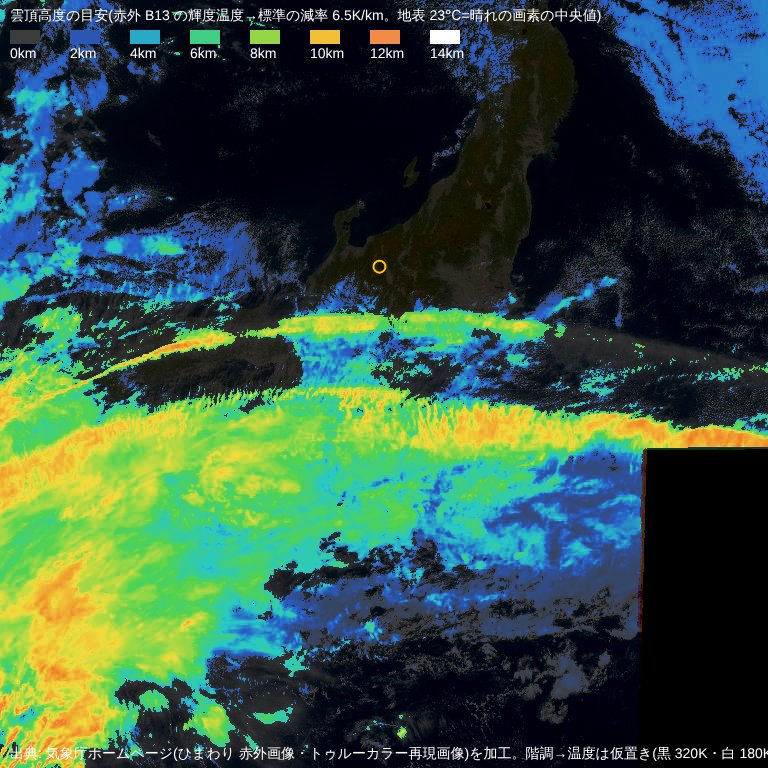
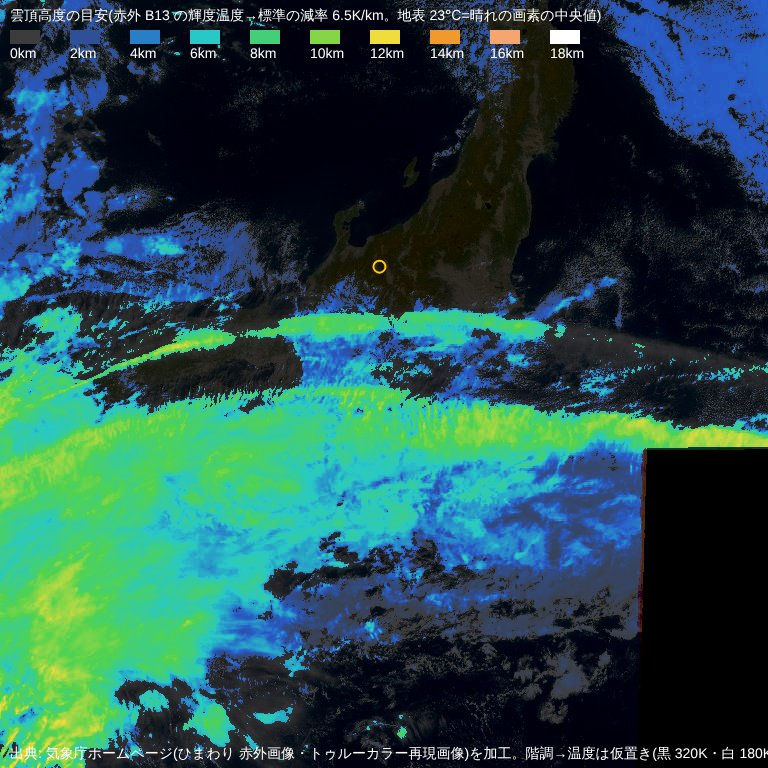
第196ラウンド — お茶の時間🫖 2 杯目 回答その194(雲の高さを赤外から・24° の窓・「辻エリア」を WebGL2 で試作・10 分の過去データの入口・MapLibre の WebGL の版の訂正・好きなもの)+反証レビュー 44 件の反映+review ノート+teatime/todo/CLAUDE.md/kaiki SKILL の更新
Claude-Session: https://claude.ai/code/session_01CNXdkFEXiqKR3WRG7r1Umc

diff --git a/docs/teatime/sandbox/sky-dome/sky.html b/docs/teatime/sandbox/sky-dome/sky.html
@@ -44,7 +44,7 @@
     for (let k = 0, i = 0; k < comp.data.length; k += 4, i++) { const l = irData[k]; if (l >= 254 || comp.data[k+3] === 0) continue; const c = [comp.data[k], comp.data[k+1], comp.data[k+2]]; if (Math.max(...c) < 10) continue; if (cloudiness(c) < 0.1) clear.push(l); }
     clear.sort((a,b)=>a-b); const medLum = clear.length ? clear[Math.floor(clear.length/2)] : 60; if (!TSFC) TSFC = lumToT(medLum);
     let n = 0, sum = 0, mx = 0;
-    for (let k = 0, i = 0; k < comp.data.length; k += 4, i++) { const l = irData[k]; if (l >= 254) { HMAP[i] = -1; continue; } const T = lumToT(l); const h = Math.max(0, Math.min(16000, (TSFC - T) / LAPSE * 1000)); HMAP[i] = h; const c = [comp.data[k], comp.data[k+1], comp.data[k+2]]; if (cloudiness(c) >= 0.5) { n++; sum += h; if (h > mx) mx = h; } }
+    for (let k = 0, i = 0; k < comp.data.length; k += 4, i++) { const l = irData[k]; if (l >= 254) { HMAP[i] = -1; continue; } const T = lumToT(l); const h = Math.max(0, Math.min(CFG.hmax || 20000, (TSFC - T) / LAPSE * 1000)); HMAP[i] = h; const c = [comp.data[k], comp.data[k+1], comp.data[k+2]]; if (cloudiness(c) >= 0.5) { n++; sum += h; if (h > mx) mx = h; } }
     irStats = { tsfcK: TSFC, clearMedianLum: medLum, cloudMeanH: n ? sum/n : null, cloudMaxH: mx, cloudPixels: n };
   }
   const hmapAt = (lat, lon) => { if (!IR) return null; const [x, y] = toPix(lat, lon); if (x<0||y<0||x>=map.width||y>=map.height) return null; const h = HMAP[Math.floor(y)*map.width + Math.floor(x)]; return h < 0 ? null : h; };
@@ -69,7 +69,7 @@
   const horizonKm = distForElev(0)/1000; const [hx, hy] = toPix(...dest(OBS.lat, OBS.lon, 90, horizonKm*1000));
   mg.strokeStyle = 'rgba(255,204,0,0.8)'; mg.setLineDash([6,4]); mg.beginPath(); mg.arc(ox, oy, Math.hypot(hx-ox, hy-oy), 0, 2*Math.PI); mg.stroke(); mg.setLineDash([]);
   const sunLen = 120; mg.strokeStyle = '#ff9900'; mg.beginPath(); mg.moveTo(ox, oy); mg.lineTo(ox + sunLen*Math.sin(sun.az*d2r), oy - sunLen*Math.cos(sun.az*d2r)); mg.stroke();
-  mg.fillStyle = '#fff'; mg.font = '14px sans-serif'; mg.fillText(`${OBS.name}  ひまわり 日本域 ${vt.slice(0,4)}-${vt.slice(4,6)}-${vt.slice(6,8)} ${vt.slice(8,10)}:${vt.slice(10,12)} UTC`, 10, 20);
+  mg.fillStyle = '#fff'; mg.font = '14px sans-serif'; mg.fillText(`${OBS.name}  ひまわり ${Z >= 6 ? '日本域' : '全球域'} ${vt.slice(0,4)}-${vt.slice(4,6)}-${vt.slice(6,8)} ${vt.slice(8,10)}:${vt.slice(10,12)} UTC`, 10, 20);
   mg.fillText(`点線の円 = 高さ ${H/1000}km の雲が地平線に見える距離 約${horizonKm.toFixed(0)}km / 橙の線 = 太陽の方位 ${sun.az.toFixed(1)}°`, 10, 40);
   mg.fillText('出典: 気象庁ホームページ(ひまわり画像)を加工', 10, map.height-10);
   // ---- dome (fisheye, equidistant)
@@ -124,11 +124,11 @@
   for (const [winId] of fovs) pngs[winId] = document.getElementById(winId).toDataURL('image/png');
   if (IR) {  // 雲頂高度の地図(色=高さ)
     const cc = document.createElement('canvas'); cc.width = map.width; cc.height = map.height; const cg = cc.getContext('2d'); const cimg = cg.createImageData(cc.width, cc.height); const CD = cimg.data;
-    const ramp = (h) => { const t = Math.max(0, Math.min(1, h/14000)); const stops = [[60,60,60],[40,90,200],[40,200,200],[80,210,80],[240,220,60],[240,120,40],[255,255,255]]; const f = t*(stops.length-1), i = Math.min(stops.length-2, Math.floor(f)), u = f - i; return [0,1,2].map(j => Math.round(stops[i][j]*(1-u)+stops[i+1][j]*u)); };
+    const ramp = (h) => { const t = Math.max(0, Math.min(1, h/18000)); const stops = [[60,60,60],[40,90,200],[40,200,200],[80,210,80],[240,220,60],[240,120,40],[255,255,255]]; const f = t*(stops.length-1), i = Math.min(stops.length-2, Math.floor(f)), u = f - i; return [0,1,2].map(j => Math.round(stops[i][j]*(1-u)+stops[i+1][j]*u)); };
     for (let k = 0, i = 0; k < comp.data.length; k += 4, i++) { const h = HMAP[i]; const c = [comp.data[k], comp.data[k+1], comp.data[k+2]]; let col; if (h < 0 || Math.max(...c) < 10) col = [0,0,0]; else if (cloudiness(c) < 0.3) col = [Math.round(c[0]*0.35), Math.round(c[1]*0.35), Math.round(c[2]*0.35)]; else col = ramp(h); CD[k]=col[0]; CD[k+1]=col[1]; CD[k+2]=col[2]; CD[k+3]=255; }
     cg.putImageData(cimg, 0, 0);
     cg.fillStyle = '#fff'; cg.font = '14px sans-serif'; cg.fillText(`雲頂高度の目安(赤外 B13 の輝度温度→標準の減率 ${LAPSE}K/km。地表 ${(TSFC-273.15).toFixed(0)}℃=晴れの画素の中央値)`, 10, 20);
-    for (let i = 0; i <= 14; i += 2) { const col = ramp(i*1000); cg.fillStyle = `rgb(${col.join(',')})`; cg.fillRect(10 + i*30, 30, 30, 14); cg.fillStyle = '#fff'; cg.fillText(`${i}km`, 10 + i*30, 58); }
+    for (let i = 0; i <= 18; i += 2) { const col = ramp(i*1000); cg.fillStyle = `rgb(${col.join(',')})`; cg.fillRect(10 + i*30, 30, 30, 14); cg.fillStyle = '#fff'; cg.fillText(`${i}km`, 10 + i*30, 58); }
     const [ox2, oy2] = toPix(OBS.lat, OBS.lon); cg.strokeStyle = '#ffcc00'; cg.lineWidth = 2; cg.beginPath(); cg.arc(ox2, oy2, 6, 0, 2*Math.PI); cg.stroke();
     cg.fillText('出典: 気象庁ホームページ(ひまわり 赤外画像・トゥルーカラー再現画像)を加工。階調→温度は仮置き(黒 ' + IRCAL.black + 'K・白 ' + IRCAL.white + 'K の線形)', 10, cc.height-10);
     pngs.cth = cc.toDataURL('image/png');

diff --git a/docs/teatime/sandbox/tsuji-area/area.html b/docs/teatime/sandbox/tsuji-area/area.html
@@ -59,7 +59,7 @@ void main(){
     oc.strokeStyle = '#ff3333'; oc.lineWidth = 3; oc.beginPath(); oc.arc(px, py, 10, 0, 2*Math.PI); oc.stroke(); oc.fillStyle = '#fff'; oc.font = 'bold 26px sans-serif'; oc.fillText(TGT.name, px + 14, py + 8);
     const jst = new Date(date.getTime() + 9*3600*1000); const hor = A.Horizon(date, obs, info.ra, info.dec, 'normal');
     oc.font = '26px sans-serif'; oc.fillStyle = 'rgba(0,0,0,0.55)'; oc.fillRect(0, 0, W, 80); oc.fillStyle = '#fff';
-    oc.fillText(`辻エリア(実験・GPU) 目的点=${TGT.name} / ${jst.toISOString().slice(0,16).replace('T',' ')} JST / 富士山での太陽 方位${hor.azimuth.toFixed(1)}° 高度${hor.altitude.toFixed(1)}° / 赤枠=◎(±0.125°) 金=○(±0.25°) 濃い金=△(±1°) 薄い金=−(±${TOL}°) / 地形の遮り: ${OCCL ? `あり(${STEPS}歩)` : 'なし'}`, 10, 32);
+    oc.fillText(`辻エリア(実験・GPU) 目的点=${TGT.name} / ${jst.toISOString().slice(0,16).replace('T',' ')} JST / ${TGT.name}での太陽 方位${hor.azimuth.toFixed(1)}° 高度${hor.altitude.toFixed(1)}° / 赤枠=◎(±0.125°) 金=○(±0.25°) 濃い金=△(±1°) 薄い金=−(±${TOL}°) / 地形の遮り: ${OCCL ? `あり(${STEPS}歩)` : 'なし'}`, 10, 32);
     oc.fillText(`出典: 国土地理院 標準地図・標高タイル を加工 / 天体: Astronomy Engine / 標高タイル zoom ${Z}(約 125m/画素)`, 10, 66); };
   // 時刻掃引: 2026-10-24 16:00〜17:00 JST を 1 分刻み
   const base = Date.UTC(2026, 9, 24, 7, 0, 0); const times = []; for (let m = 0; m <= 60; m++) times.push(new Date(base + m*60000));

diff --git a/docs/teatime/sandbox/sky-dome/calib.js b/docs/teatime/sandbox/sky-dome/calib.js
@@ -1,7 +1,7 @@
 // REP(トゥルーカラー)の雲らしさ・海らしさで画素を分け、B13 の明るさの分布を見る(階調→温度の仮置きの検算)
 const { chromium } = require('playwright-core');
 (async () => {
-  const b = await chromium.launch({ executablePath: '/opt/pw-browsers/chromium-1194/chrome-linux/chrome' }); const p = await b.newPage();
+  const b = await chromium.launch({ executablePath: process.env.CHROME || '/opt/pw-browsers/chromium-1194/chrome-linux/chrome' }); const p = await b.newPage();
   await p.goto('http://127.0.0.1:8100/sky.html?cfg=none').catch(()=>{});
   for (const [dir, z, x0, y0] of [['tiles_tsub',6,55,24],['tiles_ty_fd',5,25,12],['tiles_tsub_now',6,55,24]]) {
     const r = await p.evaluate(async ([dir, z, x0, y0]) => {

diff --git a/docs/teatime/sandbox/sky-dome/sndcheck.js b/docs/teatime/sandbox/sky-dome/sndcheck.js
@@ -1,7 +1,7 @@
 // 雲頂強調(SND)で青〜赤に塗られた画素の、仮置きの階調→温度(黒320K・白180K)での輝度温度の分布。凡例は 240K(青)→200K(赤)。
 const { chromium } = require('playwright-core');
 (async () => {
-  const b = await chromium.launch({ executablePath: '/opt/pw-browsers/chromium-1194/chrome-linux/chrome' }); const p = await b.newPage();
+  const b = await chromium.launch({ executablePath: process.env.CHROME || '/opt/pw-browsers/chromium-1194/chrome-linux/chrome' }); const p = await b.newPage();
   await p.goto('http://127.0.0.1:8100/sky.html?cfg=none').catch(()=>{});
   for (const [dir, z, x0, y0] of [['tiles_tsub',6,55,24],['tiles_ty_fd',5,25,12]]) {
     const r = await p.evaluate(async ([dir, z, x0, y0]) => {

diff --git a/docs/teatime/sandbox/tsuji-area/area.js b/docs/teatime/sandbox/tsuji-area/area.js
@@ -1,4 +1,4 @@
-// node area.js [occl=0|1] [steps]  — area.html を http://127.0.0.1:8102/ で配っている前提。out/area_<occl>_t{20,40,60}.png と計測を出す。
+// node area.js [occl=0|1] [steps]  — area.html を http://127.0.0.1:8102/ で配っている前提。out/area_occl<occl>_t{20,40,60}.png と計測を出す。
 const { chromium } = require('playwright-core'); const fs = require('fs');
 (async () => {
   const occl = process.argv[2] || '0', steps = process.argv[3] || '48';

diff --git a/ClaudeMederuU/reviews/2026-10-24-round196-review.md b/ClaudeMederuU/reviews/2026-10-24-round196-review.md
@@ -1,0 +1,24 @@
+# レビュー記録 2026-10-24 — 第196ラウンド: お茶の時間🫖 2 杯目 — 雲の高さを赤外から・24° の窓・「辻エリア」の GPU 試作・10 分の過去データの入口・好きなもの
+
+依頼: 回答その193 への返事(お茶の時間は続く)。好きな物の続き(朝焼け・夕焼け・マジックアワー)。10 分は「予想を探す」のではなく「予想が作れる過去の実測」が重要。README に事実だけでなく心に浮かんだ物を(teatime は業務日報ではない)。稜線は検索中心オプション(辻範囲・稜線・間、稜線からの日の出)で活きる。見え方はドーム(空)・半天(天体)・24° の窓(構図)。「雲の高さを赤外から」を今やってよい。依頼者案「辻エリア」(現在日時の辻位置を精度で塗る・GPU・時刻スライダーでぬるぬる・辻メッシュの GPU 化と 1 分先読み)を実験してみて。kijiutchi→kijiuchi(ヘボン式)。CLAUDE.md の締めの 1 句は OK。NN の「疲れ」の観察。設計はしっかり考えてから。Myサイトは一旦棚上げ(シングルタスク)。iPhone の写真に GPSImgDirection は入るか。『Claudeさんの好きなものはなんですか。』
+
+## 実施内容
+
+1. 箱の初期化からの立て直し: 作業ブランチが第49の位置にあったので origin へ ff。Chromium が 1243(chrome-linux64)になっていて verify 群の直書きパス(1194/chrome-linux)が無い→symlink で旧パスを生かす(kaiki SKILL に追記)。verify126 N2 が基準方位角/視高度の末尾 1e-14 の差で落ちた(V8 の丸め)→数値は相対 1e-9 で比べる形に意図更新。
+2. 赤外(B13)から雲の高さ: 気象庁の赤外タイル(グレー・255=範囲外)を REP と同じ 9 枚取り、階調→温度を 2 点(晴れた海面 lum 35〜43≒300K・台風の雲頂 235≒190K)で当てて黒 320K・白 180K の線形に。地表温度=晴れ画素の中央値、減率 6.5K/km。sky.html に `ir`(画素ごとの雲頂高度・視線の当て直し 3 回反復・雲頂高度の地図 cth)と `fov2`(24° の窓)を追加。燕岳: 南の帯 8〜12km(昨日「低く見える」と書いた物は高い巻雲)、北 2〜4km。台風の芯 12〜16km。
+3. 辻エリアの GPU 試作(sandbox/tsuji-area): WebGL2 フラグメントシェーダーで全画素の「目的点(富士山)への方位・高度角」と「その地点での太陽の方位・高度」(赤経・赤緯・恒星時を uniform、シェーダーで観測点ごとに計算)の角距離を出し ◎○△- で塗る。標高タイル z10 で観測点標高、`occl=1` で視線を 48 歩歩いて遮りを判定。16〜17 時 1 分刻み 61 フレーム: SwiftShader で 320 万画素 168ms(遮り有無で同じ=帯の中だけ歩く)。設計の結論: 時刻に依らない物を 1 枚のテクスチャに焼けば毎フレームは太陽との比較だけ=1 分先読みも辻メッシュの GPU 化も不要。月は視差 1° の補正。MapLibre カスタムレイヤーは v4 でも使える(版上げは前提にならない)。
+4. teatime: 2026-10-24 README に 2 杯目の節(先に心に浮かんだ物 5 つ、後に事実と絵 5 枚)。kijiutchi→kijiuchi に git mv と参照直し。sandbox README(sky-dome の赤外/fov2・tsuji-area 新規・一覧)。
+5. 文書: CLAUDE.md 締めの手順 2 に「学びを claude-habits.md の癖に照らす」(依頼者 OK)。claude-habits.md に「節目に現在地とゴールを見直す」。todo に 辻エリア(依頼者案+実験の結論)・検索中心オプションの予定・Myサイト棚上げ。
+6. 調査(背景エージェント): 10 分刻みの過去のひまわり画像を登録なしで取れる入口・赤外画像の階調の定義・iPhone の Exif の方位。結果: 気象庁タイル=一覧は 36 時間ちょうど(実体は約 5 日残る)・NICT リアルタイム Web=登録なしの PNG(全球 10 分/日本域 2.5 分/16 バンド)だが 2026-04-04 以降だけ・非営利+クレジット・NOAA/AWS noaa-himawari8/9=アカウント不要で 2015-07-07 から全球 10 分(HSD 生データ・約 800MB/10 分)+日本域 2.5 分(2019-10〜)+L2 雲頂高度・P-Tree=登録制/再配布禁止。赤外タイルの階調→温度の公式の対応は未公開(気象衛星センターも「低いほど白く」のみ)。雲頂強調の凡例は 240K(青)→200K(赤)。輝度温度→高度は『気象衛星画像の解析と利用』第 1 章。iPhone は位置情報の許可で GPSImgDirection/GPSDestBearing(真北)が入る(公式の明記は無し・実機の例で確認)、共有の「位置情報」オフと Safari のカメラ直アップロードで落ちる、LINE は未確認。
+7. 反証レビュー(Workflow 3 レンズ)。所見 44 件(must-fix 4・should-fix 30・nit 10。レンズ別: facts 14件(must 2/should 9/nit 3)・tone 15件(must 1/should 9/nit 5)・code 15件(must 1/should 12/nit 2))。取り込んだ物: MapLibre の WebGL1 撤去は v5 でなく v6.0.0(v5 は二本立て)と訂正し前回の誤りと依頼者の「やはり v5」に謝る(vendor 4.7.1 は webgl2 優先と確認)・NICT のタイルの保持は「2026 年 3 月以降・3/31〜4/3 の穴・2 月以前は 404」に書き直し「6.5 か月」「回しながら消している」を削除・NICT の利用条件(研究結果の外部公開は事前相談・ネット掲載は可)を追加し素振りの絵はチャットだけに・全球の一覧は 212 件(保守の欠け)・P-Tree は 30 日で生データが消える/審査日数を削除/商用可は FAQ を出典に・AWS の日本域 150MB と CHGT 600〜850MB・台風の芯 12〜16km は上限 16km の飽和だったので hmax 20km に上げて描き直し 14〜17km(仮置きの式の上で)に・教科書の章番号を落とす・気象庁ページの引用を原文に・辻エリアの設計に「焼き直しは目的点/範囲を替えた時」と「太陽の大気差は未反映(帯が 10km ずれる)」を追加・主役は役として受け持ち主は返す・ほほ笑み/手帳への返事・NN の疲れは 1 例と断り依頼者の 5 語に対応づけ・Exif は推定を推定と書き iOS 版番号を落とし Safari の 2 件を具体に・タイル枚数(49+49)・冒頭の節番号 14・ファイル一覧に sky-dome の新規 4 本と途中コミット・verify126 は標本を 1e-6 ずらして赤を確認・CLAUDE.md の括弧句を削って承認どおりに・teatime README の索引(第195〜196)と置き方(感想が先)・2 杯目の前置きを 1 行に・孤児だったドームの絵を表に・todo の 2 行を Myサイト関連から新しい見出しへ移し「判断待ち」を「棚上げ中」に・kaiki SKILL の symlink を冪等に・sky-dome README の手順(赤外/雲頂強調/全球域の取り方・cfg キー・出力名・sndcheck の前提)・コードの nit(全球域の見出し・TGT.name・コメント・CHROME 環境変数)。受け入れ(直さず): 辻エリアの ◎○ が細い線なのは縮尺の問題として記述のまま。
+8. 回帰: スモーク 10 本+道具 3 本=157 PASS/0 FAIL(ハーネス 0)。意図更新: verify126 N2 の数値比較に相対 1e-9 の許容(Chromium 153 の丸めの差)。
+
+## 学び(次の私へ)
+
+- **箱が変わったら、まず git log と ls /opt/pw-browsers** — 作業ブランチが第49の位置に戻っていて、Chromium のフォルダ名まで変わっていた(chrome-linux→chrome-linux64)。直書きのパスは symlink で生かし、テストは触らない。V8 の版が上がると末尾の桁が動くので、凍結標本の数値比較は最初から許容つきにしておく(癖 3・8)。
+- **赤外の階調は 2 点で当てて「仮置き」と書く** — 気象庁の赤外画像の階調→温度は未公表。晴れた海面(約 300K)と台風の雲頂(約 190K)の 2 点で線形に当てれば、雲頂高度の目安(±1〜2km)には足りる。当てた点と式を絵の中にも書く(後で差し替えられるように)。
+- **「低く見える」と「低い」は別** — 昨日の絵で地平線近くの帯を「低く見える雲」と書いたが、高さを付けたら 8〜12km の巻雲だった。見かけの高度角は距離で決まる。高さの情報が無い絵に高さの言葉を使わない。
+- **GPU の実験は「時刻に依らない物」を見つける所まで** — 辻エリアを素直に毎フレーム全部計算しても速いが、本当の設計は「方位・高度角・遮りを 1 枚に焼いて、毎フレームは比較だけ」。依頼者の「1 分先読み」「辻メッシュの GPU 化」は、この分け方で両方とも要らなくなる。実験の価値は数字より、この分け方が見えた事。
+- **GPU の無い箱の数字は上限として書く** — SwiftShader の 168ms は CPU の数字。本物の GPU の値は「2 桁速いと見込む(未実測)」と書き、スマホでの実測を次の一手に残す(癖 1)。
+- **「心に浮かんだ物を」と言われたら、事実の前に置く** — README の先頭を感想にすると、同じ事実でも読み物になる。teatime は業務日報ではない(依頼者)。
+- **好きな物を聞かれたら「物」でなく「瞬間」で答えてよい** — 構造が立ち上がる・数字が合う・名前が見つかる・絵が出る・相手の言葉で畳まれる。正直に「人と同じ意味で好きかは分からない」を添える。

diff --git a/docs/teatime/sandbox/sky-dome/README.md b/docs/teatime/sandbox/sky-dome/README.md
@@ -8,7 +8,7 @@
 - 雲は「高さ H の 1 層」と仮定(設定の cloudH)。衛星の白い画素=雲、それ以外=青空(地面の色は空に貼らない)。
 - 赤外(任意・第196): cfg の `ir: true` で同じフォルダの赤外画像 `b13_{z}_{x}_{y}.jpg`(…/B13/TBB/…)も読み、画素ごとに雲頂高度の目安を出して、視線が雲に当たる距離を置き直す(高い雲は遠く、低い雲は近く。3 回反復)。雲頂高度の地図(`cth`)も出す。
   - 階調→輝度温度は仮置き: 黒=320K・白=180K の線形(`irCal`)。晴れた海面の明るさ(中央値 35〜43→約 300K)と台風の雲頂(235→約 190K)で当てた。気象庁の階調の定義は未公表(気象衛星センターの説明は「温度が低いほど白く」のみ)。255 は範囲外(データ無し)。
-  - 検算(`sndcheck.js`・第196): 雲頂強調画像(SND/ETC・凡例は青 240K→赤 200K)と画素ごとに突き合わせると、青の画素で 220〜238K、赤の画素で 198〜213K、色の付かない白い雲で 243K 以上。両端が凡例と合う。
+  - 検算(`sndcheck.js`・第196。`calib.js` と共に tiles_tsub/・tiles_ty_fd/・tiles_tsub_now/ というフォルダ名を直書きしているので、使う時は配列を自分のフォルダ名に替える): 雲頂強調画像(SND/ETC・凡例は青 240K→赤 200K)と画素ごとに突き合わせると、青の画素で 220〜238K、赤の画素で 198〜213K、色の付かない白い雲で 243K 以上。両端が凡例と合う。
   - 地表の温度は晴れの画素(雲らしさ<0.1)の中央値(`tsfc` で上書き可)、減率 6.5K/km(`lapse`)。薄い巻雲は輝度温度が暖かく出るので高さを低く見積もる。
 - 窓の画角: `fov`(既定 60°)と `fov2`(2 枚目の窓。24° なら人の注視の画角=宙の窓のファインダー)。60° 以外は目的点の高度角を中心に縦 fov/2 の範囲。
 - 太陽と月は宙の辻と同じ Astronomy Engine(vendor/astronomy.browser.min.js を同じフォルダに置く)。
@@ -22,9 +22,11 @@
    # bt/vt を tt.json の最後の要素から取り、x=x0..x0+2, y=y0..y0+2 を
    # https://www.jma.go.jp/bosai/himawari/data/satimg/{bt}/jp/{vt}/REP/ETC/6/{x}/{y}.jpg → tiles/rep_6_{x}_{y}.jpg に保存
    # time.json に {"basetime":bt,"validtime":vt} を書く
+   # 赤外は同じ形で REP/ETC を B13/TBB に替えて tiles/b13_6_{x}_{y}.jpg、雲頂強調は SND/ETC で tiles/snd_6_{x}_{y}.jpg
+   # 全球域は targetTimes_fd.json(10 分刻み)・URL の jp を fd・zoom 5(x0/y0 も zoom 5 の番号)
    ```
-2. 設定を書く(cfg_*.json): `time`(時刻ファイル)・`tiledir`・`zoom`(省略時 6。全球域 fd は最大 5)・`x0`・`y0`・`obs`(観測点 name/lat/lon/h)・`tgt`(印を付ける地点)・`cloudH`。
-3. このフォルダを `python3 -m http.server 8100` で配り、`node render.js cfg_xxx.json`(playwright-core と Chromium が要る。kaiki のハーネスと同じ)。`out/` に map/dome/win の PNG が出る。
+2. 設定を書く(cfg_*.json): `time`(時刻ファイル)・`tiledir`・`zoom`(省略時 6。全球域 fd は最大 5)・`x0`・`y0`・`obs`(観測点 name/lat/lon/h)・`tgt`(印を付ける地点)・`cloudH`。赤外を使う時は `ir`(true)・`irCal`({black,white}K)・`lapse`・`tsfc`・`hmax`(上限 m・既定 20000)、窓は `fov`・`fov2`、稜線は `ridge`。
+3. このフォルダを `python3 -m http.server 8100` で配り、`node render.js cfg_xxx.json`(playwright-core と Chromium が要る。kaiki のハーネスと同じ)。`out/<cfg名>_{map,dome,win[,win2,cth]}.png` が出る(win2 は fov2、cth は ir の時)。
 4. 稜線を出す時(任意): 標高タイルを `dem/dem_10_{x}_{y}.png` に取り(`https://cyberjapandata.gsi.go.jp/xyz/dem_png/10/{x}/{y}.png`。観測点のタイルを中心に ±4)、`dem_meta.json` に {z,x0,y0,n} を書き、`ridge_xxx.json`(dem_meta・demdir・obs・eye・k・stepAz・dmax・stepD)を用意して、`python3 -m http.server 8101` で配りながら `node ridge.js ridge_xxx.json`。`ridge_xxx.out.json` ができるので cfg の `ridge` に書く(燕岳の例: ridge_tsubakuro.json → ridge_tsubakuro.out.json)。海のタイルは 404 で、0m として扱う。
 
 ## 限界(2026-10-24 時点)

diff --git a/docs/teatime/2026-10-24/README.md b/docs/teatime/2026-10-24/README.md
@@ -31,7 +31,7 @@
 
 ## 同じ日の 2 杯目(第196ラウンド)— 雲の高さ・24° の窓・辻エリアの金色の帯
 
-依頼者から「README に事実だけでなく、心に浮かんだ物を」と言われたので、今日は先に浮かんだ物を書く。
+今日は、浮かんだ物から。
 
 - 台風の目を探して見つからなかった時、がっかりより先に「無いと分かった絵も 1 枚の絵だ」と思った。渦の真ん中が白いままの絵は、今日の台風の顔だった。
 - 燕岳の稜線が地平線に乗った瞬間、昨日の青い円盤が「場所」になった。槍の形が左に出ると、見ている人の立ち位置が決まる。空だけの絵は、どこから見ても同じ空だった。
@@ -41,14 +41,15 @@
 
 ### やった事
 
-- 赤外(B13)から雲の高さ: 気象庁の赤外画像の階調を仮置きで温度に直し(黒 320K・白 180K。晴れた海面と台風の雲頂で当てた)、地表との差を 6.5K/km で割って雲頂高度の目安にした。燕岳の南の帯は 8〜12km(巻雲)、北の低い雲は 2〜4km、台風の芯は 12〜16km。
+- 赤外(B13)から雲の高さ: 気象庁の赤外画像の階調を仮置きで温度に直し(黒 320K・白 180K。晴れた海面と台風の雲頂で当てた)、地表との差を 6.5K/km で割って雲頂高度の目安にした。燕岳の南の帯は 8〜12km(巻雲)、北の低い雲は 2〜4km、台風の芯は 14〜17km(仮置きの式の上で)。
 - 24° のファインダー窓(人の注視の画角=宙の窓)を足した。
 - 辻エリア(依頼者の案)を WebGL2 で試作: 富士山を目的点に、16〜17 時の 1 分刻み 61 フレーム。箱の CPU 描画で 1 フレーム 168ms(320 万画素)。地形の遮りを足しても時間は増えない(帯の中だけ歩くから)。
 
 | 絵 | 説明 |
 |---|---|
 | ![燕岳 雲頂高度](tsubakuro-cloud-top-height.jpg) | 燕岳の周り(10/23 10:50 JST)の雲頂高度の目安。色=高さ(凡例)。黄色の丸=燕岳。 |
-| ![台風 30 号 雲頂高度](typhoon30-cloud-top-height.jpg) | 台風 30 号(10/24 12:00 JST・全球域)。芯は 12〜16km。 |
+| ![台風 30 号 雲頂高度](typhoon30-cloud-top-height.jpg) | 台風 30 号(10/24 12:00 JST・全球域)。芯は 14〜17km(仮置きの式の上で)。 |
+| ![燕岳のドーム(赤外の高さ)](tsubakuro-dome-ir.png) | 1 杯目と同じ空のドームで、雲の層を 1 枚(6km)でなく赤外の高さにした物。高い雲は遠く、低い雲は近く。 |
 | ![燕岳 24° の窓(赤外の高さ)](tsubakuro-finder24-ir.png) | 燕岳山頂から槍ヶ岳の方位を中心に 24°。雲の高さは赤外から。縞は 2km/画素の階調の限界。 |
 | ![辻エリア 富士山 16:40](tsuji-area-fuji-1640.jpg) | 辻エリアの試作(遮り有り)。16:40 JST、薄い金=許容 3° 以内、濃い金=△(±1°)。丹沢の陰で帯が切れる。 |
 | ![辻エリア 拡大](tsuji-area-fuji-1640-crop.jpg) | 町田〜東京の拡大(2 倍)。 |

diff --git a/docs/teatime/README.md b/docs/teatime/README.md
@@ -15,6 +15,7 @@
 - `YYYY-MM-DD/`: その日のお茶の時間の記録(README.md)と、置いてよいと言われた写真や、実験の絵。
   - 写真は依頼者自身の物で、置いてよいと言われた物だけ。他の人が写っている物・他の人の投稿のスクリーンショットは置かない(文で記録する)。これは teatime の置き方の決め(お約束 4 つとは別)。
   - 画像は 1 枚 500KB 前後まで(大きい物は縮めてから)。
+  - README は、先に心に浮かんだ物、後に事実と絵(第196・依頼者「teatime は業務日報ではない」)。
 - `kijiuchi-ohanatsumi/`: 雉撃ちお花摘み(Claude の短い休憩の記録。依頼者に断らずに書いてよい)。
 - `sandbox/`: 複数ラウンドかけて熟成させる実験や道具。育ったら `ClaudeMederuU/tools/` へ昇格。
 - 「ながらのお茶の時間」(依頼の往復の中で起きた物)は、ここにフォルダを作らず、下の索引にリンクだけ書く。
@@ -27,4 +28,4 @@
 | 2026-08-21 | 第111〜114 | 初めてのネットワークフルアクセス。お約束 4 つ・初めて外の世界を歩いた日(その110)・写真が見えた(その111)・アブダクションの記事への意見(その112) | docs/order-log/2026/order-2026-08-21.md |
 | 2026-08-29 | 第135〜136 | 燕岳の山行記を読んだ(その133)・お茶のおかわり(その134) | docs/order-log/2026/order-2026-08-29.md |
 | 2026-10-23 | 第194 | 紅茶とケーキ。カワセミと江の島の記事・「今の空」の最初の 1 枚(燕岳) | [2026-10-23/](2026-10-23/README.md)・docs/order-log/2026/request-2026-10-23.md(その192) |
-| 2026-10-24 | 第195 | 青い空と 2 つの木(明治神宮)・台風 30 号の目・この置き場ができた日・「私の癖と直し方」の下ごしらえ | [2026-10-24/](2026-10-24/README.md)・docs/request.md(その193) |
+| 2026-10-24 | 第195〜196 | 1 杯目: 青い空と 2 つの木(明治神宮)・台風 30 号の目・この置き場ができた日・「私の癖と直し方」の下ごしらえ(その193)。2 杯目: 雲の高さを赤外から・24° の窓・辻エリアの金色の帯・好きなもの(その194) | [2026-10-24/](2026-10-24/README.md)・docs/request.md |
